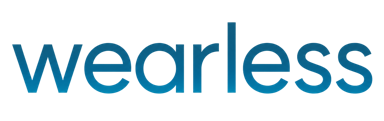
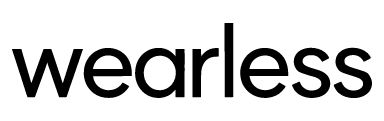
fix(brand): ai.wearless.kr 로고와 워드마크를 검정 버전으로 되돌려요
새벽에 적용한 검정 로고(codex/wearless-black-brand)는 main에 합쳐지지 않은 채
따로 배포돼 있었어요. 오늘 저녁 main 머지(#397~#399)로 다시 배포되면서
예전 파란 로고로 돌아갔어요. 그 브랜치에서 로고와 워드마크 파일만 그대로 가져와요.

- 로고(logo.svg), 워드마크(wordmark.png)를 검정 버전으로
- 로고가 탭 아이콘으로도 쓰여서, 흰 바탕 전용 파비콘(favicon.svg, 32px, 애플 터치 아이콘)도 함께
- 헤더 배치, 모바일 메뉴, 생성 안내 위치 등 그 브랜치의 다른 수정은 넣지 않음

Changed region(s): [[0.0312, 0.1736, 0.9688, 0.8182]]

diff --git a/src/styles/app.css b/src/styles/app.css
@@ -82,7 +82,7 @@ input, textarea, select { font-family: inherit; }
 .nav-stepper { position: absolute; left: 50%; top: 50%; transform: translate(-50%, -50%); pointer-events: none; }
 .nav-stepper .stepper { padding: 0; }
 .brand { display: inline-flex; align-items: center; gap: 8px; font-family: var(--font-display); font-size: 21px; letter-spacing: -.5px; color: var(--fg-1); }
-/* 브랜드 락업: 그라데이션 심볼 + wearless 워드마크. 심볼이 워드마크보다 살짝 큰 표준 가로 락업. */
+/* 브랜드 락업: 검정 심볼 2.50과 Medium 워드마크. */
 .brand-logo { height: 26px; width: auto; object-fit: contain; flex: 0 0 auto; }
 .brand-wordmark { height: 26px; width: auto; object-fit: contain; flex: 0 0 auto; display: block; }
 .nav-links { display: flex; align-items: center; gap: 4px; }

diff --git a/seller.html b/seller.html
@@ -3,7 +3,9 @@
 <head>
   <meta charset="UTF-8" />
   <meta name="viewport" content="width=device-width, initial-scale=1.0" />
-  <link rel="icon" type="image/svg+xml" href="/assets/brand/logo.svg" />
+  <link rel="icon" type="image/png" sizes="32x32" href="/assets/brand/favicon-32.png" />
+  <link rel="icon" type="image/svg+xml" href="/assets/brand/favicon.svg" sizes="any" />
+  <link rel="apple-touch-icon" sizes="180x180" href="/assets/brand/apple-touch-icon.png" />
   <link rel="alternate" type="text/plain" href="/llms.txt" />
   <meta name="theme-color" content="#1F68A0" />
   <title>Wearless — AI 상세페이지 스튜디오</title>
